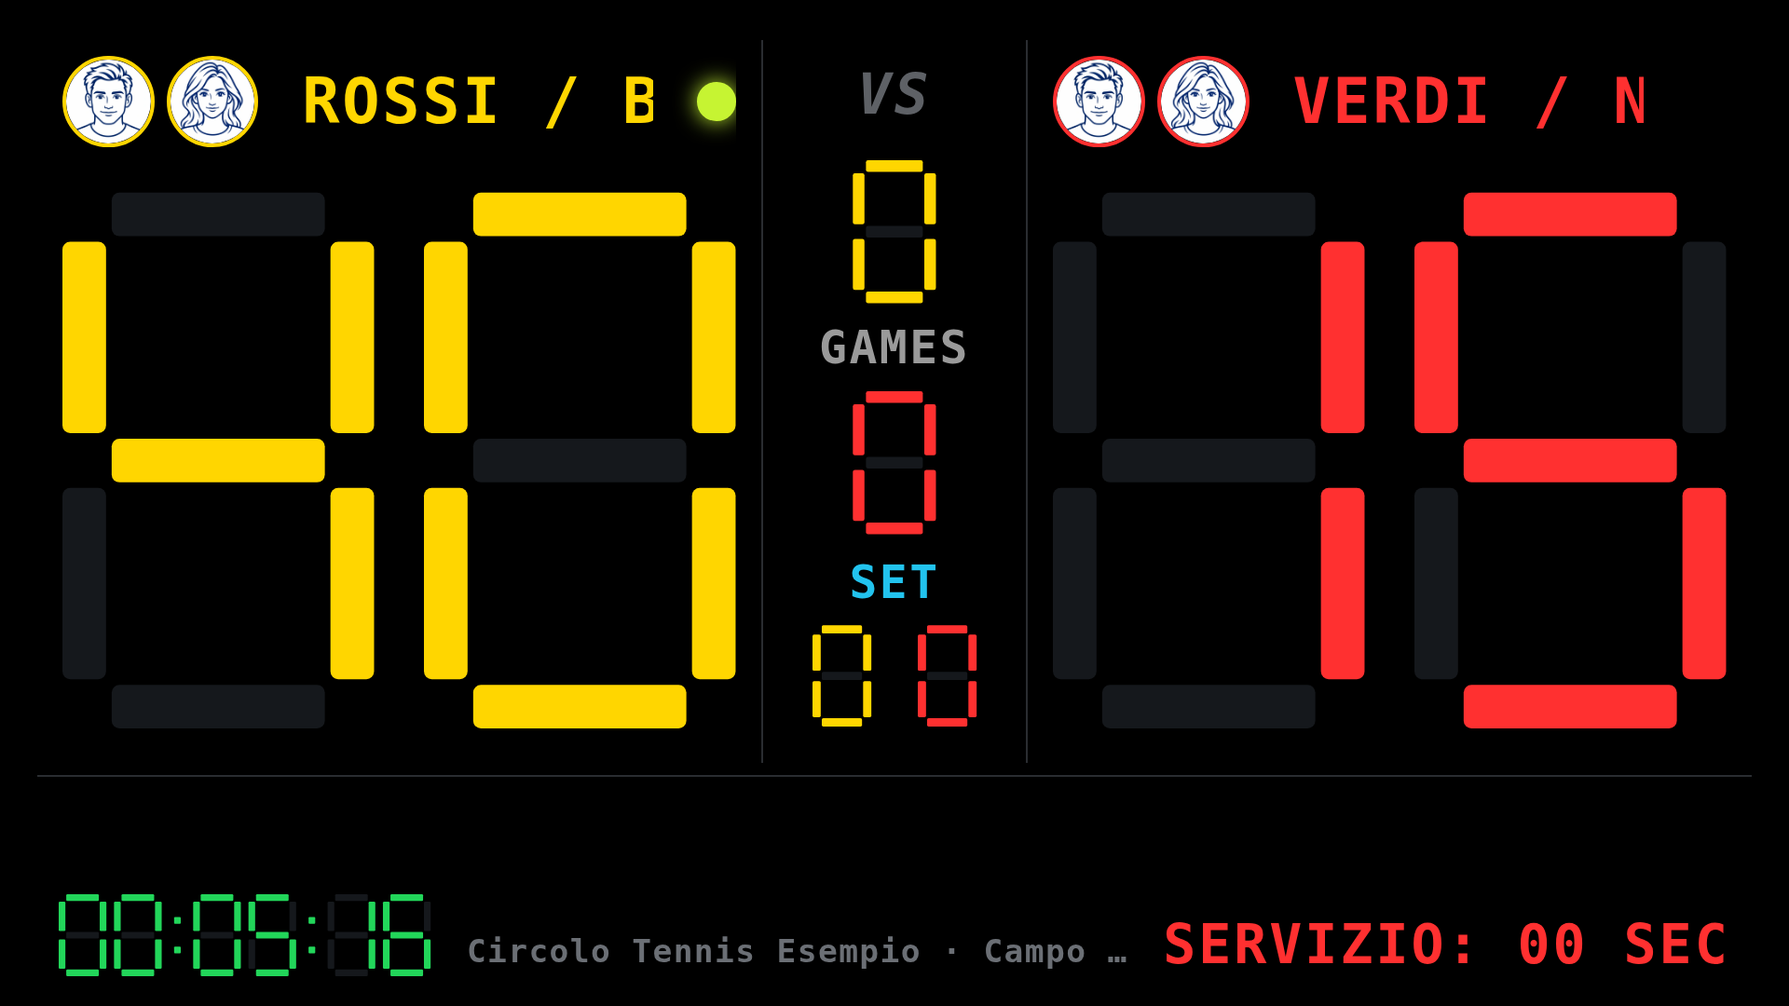
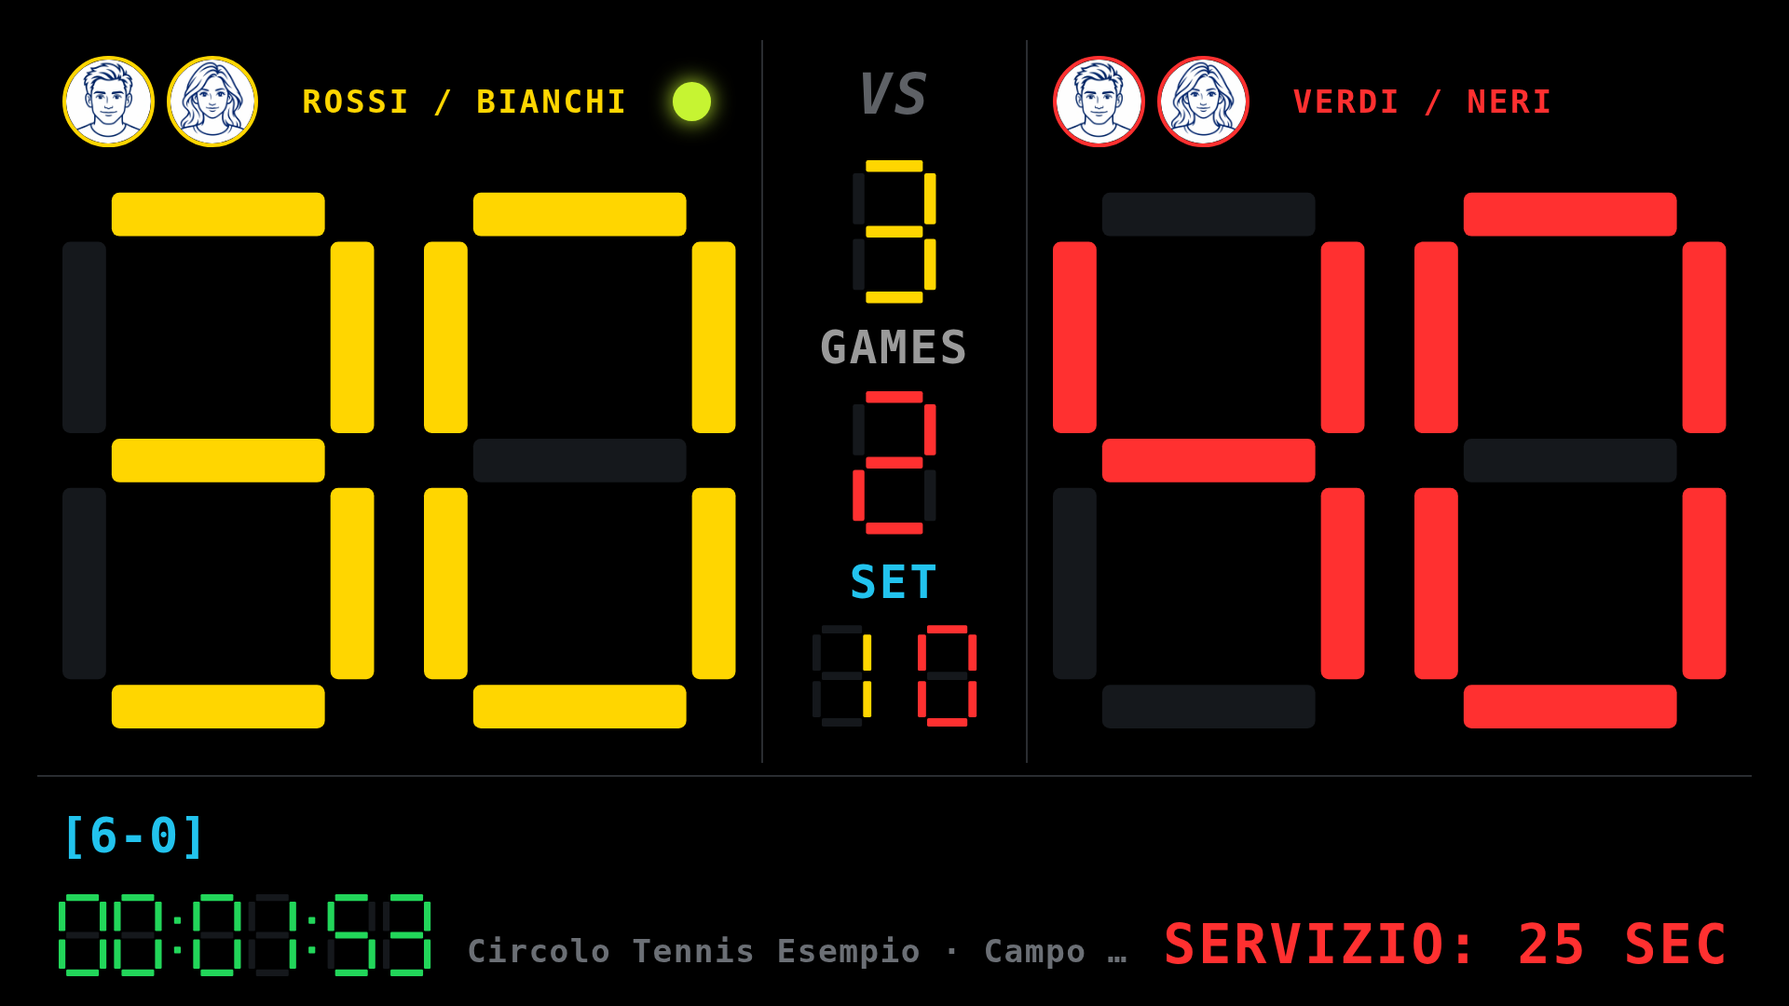
Tabellone in doppio leggibile e nome dell'app nelle esportazioni
- Tabellone TV: i nomi si adattano al posto lasciato da foto e pallina
  (in doppio non vengono più tagliati), stessa grandezza per i due lati.
  Prima della partita, sopra il circolo, "Tennis Score Manager" e
  l'indirizzo del sito.
- Statistiche degli highlight: in fondo "Creato con Tennis Score
  Manager" e l'indirizzo del sito, come nell'immagine social.
- PDF dell'allenamento: piè di pagina con nome dell'app e sito, come
  negli altri PDF.
- Guide 7.3; immagini del tabellone sul sito e su F-Droid rifatte.

diff --git a/TennisScoreManager/app/src/main/assets/scoreboard.html b/TennisScoreManager/app/src/main/assets/scoreboard.html
@@ -76,7 +76,11 @@
   #fr { justify-items: start; }
   #done { font-size: min(calc(4.8 * var(--vh)), calc(2.8 * var(--vw))); color: var(--cyan); white-space: nowrap; overflow: hidden; align-self: center; letter-spacing: .02em; }
   #clock { height: 78%; width: auto; align-self: end; }
-  #fc { display: flex; align-items: flex-end; justify-content: center; min-width: 0; }
+  #fc { display: flex; flex-direction: column; align-items: center; justify-content: flex-end; min-width: 0; }
+  /* Prima della partita, sopra il circolo: nome dell'app e indirizzo del sito (durante il gioco non c'è). */
+  #brand { display: none; font-size: min(calc(3.2 * var(--vh)), calc(1.9 * var(--vw))); color: #8A8E95; white-space: nowrap; overflow: hidden; max-width: 100%; letter-spacing: .04em; padding-bottom: calc(1 * var(--vh)); }
+  #brand b { color: var(--ball); font-weight: 700; }
+  body.pre #brand { display: block; }
   #title { font-size: min(calc(3.2 * var(--vh)), calc(1.9 * var(--vw))); color: #6B6F75; white-space: nowrap; overflow: hidden; text-overflow: ellipsis; letter-spacing: .04em; padding-bottom: calc(.6 * var(--vh)); }
   #msg { font-size: min(calc(4.6 * var(--vh)), calc(2.7 * var(--vw))); color: var(--orange); white-space: nowrap; align-self: center; letter-spacing: .03em; }
   #msg.blink { animation: blink 1.2s steps(2, start) infinite; }
@@ -124,7 +128,7 @@
   </div>
   <div id="foot">
     <div id="fl"><div id="done"></div><svg id="clock"></svg></div>
-    <div id="fc"><div id="title"></div></div>
+    <div id="fc"><div id="brand">Tennis Score Manager · <b>tennis-score-manager.netlify.app</b></div><div id="title"></div></div>
     <div id="fr"><div id="msg"></div><div id="timer"></div></div>
   </div>
 </div>
@@ -242,6 +246,22 @@ function fitText(el, maxPx) {
   }
 }
 
+// Il nome si rimpicciolisce finché sta nel posto lasciato da foto e pallina (in doppio le foto sono due).
+function fitName(n) {
+  const box = n.parentElement, gap = parseFloat(getComputedStyle(box).columnGap) || 0;
+  let taken = 0;
+  for (const c of box.children) if (c !== n && getComputedStyle(c).display !== "none") taken += c.offsetWidth + gap;
+  fitText(n, taken + 4);
+}
+
+// Tutti e due i nomi alla stessa grandezza: quella del più lungo.
+function fitNames() {
+  const ns = [$("n0"), $("n1")];
+  ns.forEach(fitName);
+  const px = Math.min(...ns.map(n => parseFloat(getComputedStyle(n).fontSize)));
+  ns.forEach(n => { n.style.fontSize = px + "px"; });
+}
+
 function hms(ms) {
   const t = Math.max(0, Math.floor(ms / 1000));
   const h = Math.floor(t / 3600) % 100, m = Math.floor(t / 60) % 60, s = t % 60;
@@ -259,17 +279,19 @@ function render() {
   setText(fs, "⛶ " + L.fullscreen);
   document.documentElement.style.setProperty("--p1", color(0));
   document.documentElement.style.setProperty("--p2", color(1));
+  let refit = false;
   for (let i = 0; i < 2; i++) {
     const n = $("n" + i);
     n.style.color = color(i);
-    if (n.textContent !== S.players[i].name) { n.textContent = S.players[i].name; fitText(n, 60); }
-    // Foto dei giocatori accanto al nome (ci sono solo se messe nell'app); si rifanno solo se cambiano.
+    // Foto o ritratti dei giocatori accanto al nome; si rifanno solo se cambiano.
     const ph = $("ph" + i), urls = (S.players[i].photos || []).join(" ");
     if (ph.dataset.u !== urls) {
       ph.dataset.u = urls;
       ph.style.color = color(i);
       ph.replaceChildren(...(S.players[i].photos || []).map(u => { const im = new Image(); im.src = u; im.alt = ""; return im; }));
+      refit = true;
     }
+    if (n.textContent !== S.players[i].name) { n.textContent = S.players[i].name; refit = true; }
     $("side" + i).classList.toggle("serving", S.show.serve && S.server === i);
     setSeg(pts[i], S.points[i], color(i));
     // Set senza tie-break o pro set: i game possono superare 9, allora le cifre diventano due (per tutti e due i lati).
@@ -278,6 +300,7 @@ function render() {
     setSeg(gms[i], S.phase === "idle" ? " " : String(S.games[i] % 100), color(i));
     setSeg(sts[i], S.phase === "idle" ? " " : String(S.sets[i] % 10), color(i));
   }
+  if (refit) fitNames();
   const vs = $("vs");
   const tb = S.phase === "play" || S.phase === "suspended" ? (S.tiebreak === "match" ? L.matchTiebreak : S.tiebreak === "set" ? L.tiebreak : "") : "";
   setText(vs, tb || L.vs);
@@ -293,6 +316,8 @@ function render() {
   setText($("done"), done);
   $("clock").classList.toggle("hide", !S.show.clock);
   setText($("title"), S.title || "");
+  const pre = S.phase === "idle" || S.phase === "ready";
+  if (document.body.classList.contains("pre") !== pre) { document.body.classList.toggle("pre", pre); if (pre) fitText($("brand")); }
 
   // messaggio: fasi speciali prima di tutto
   const msg = $("msg");
@@ -455,7 +480,7 @@ function viewportUnits() {
   }
 }
 viewportUnits();
-window.addEventListener("resize", () => { viewportUnits(); for (let i = 0; i < 2; i++) fitText($("n" + i), 60); fitText($("msg")); });
+window.addEventListener("resize", () => { viewportUnits(); fitNames(); fitText($("msg")); fitText($("brand")); });
 keepAwake();
 setInterval(tick, 200);
 

diff --git a/TennisScoreManager/app/src/main/java/com/tennis/scoremanager/video/StatsCardRenderer.kt b/TennisScoreManager/app/src/main/java/com/tennis/scoremanager/video/StatsCardRenderer.kt
@@ -47,10 +47,11 @@ object StatsCardRenderer {
     /**
      * [photos]: le foto dei giocatori di ciascun lato, nello stesso ordine dei nomi (null = avatar con le iniziali).
      * [pointsWon]: la scritta sotto la percentuale nei pannelli ("PUNTI VINTI").
+     * [credit] e [site]: in fondo "Creato con Tennis Score Manager · indirizzo del sito", come nell'immagine social.
      */
     fun render(
         card: HighlightStats.Card, page: List<HighlightStats.Section>, width: Int, height: Int, photos: Map<Side, List<Bitmap?>>, pointsWon: String,
-        avatars: Avatars? = null,
+        avatars: Avatars? = null, credit: String = "", site: String = "",
     ): Bitmap {
         val out = Bitmap.createBitmap(width, height, Bitmap.Config.ARGB_8888)
         val c = Canvas(out)
@@ -61,6 +62,7 @@ object StatsCardRenderer {
         header(c, card)
         for (side in Side.entries) player(c, card, side, photos[side].orEmpty(), pointsWon, avatars)
         rows(c, page)
+        footer(c, credit, site)
         return out
     }
 
@@ -206,6 +208,16 @@ object StatsCardRenderer {
             }
             y += 6f
         }
+    }
+
+    private fun footer(c: Canvas, credit: String, site: String) {
+        if (credit.isEmpty() && site.isEmpty()) return
+        val lead = if (credit.isNotEmpty() && site.isNotEmpty()) "$credit · " else credit
+        val cp = paint(26f, DIM)
+        val sp = paint(26f, YELLOW, bold = true)
+        val x = (W - cp.measureText(lead) - sp.measureText(site)) / 2
+        c.drawText(lead, x, 1072f, cp)
+        c.drawText(site, x + cp.measureText(lead), 1072f, sp)
     }
 
     /** Accorcia [text] con "…" finché sta in [max] punti. */

diff --git a/TennisScoreManager/app/src/main/java/com/tennis/scoremanager/video/HighlightMaker.kt b/TennisScoreManager/app/src/main/java/com/tennis/scoremanager/video/HighlightMaker.kt
@@ -49,6 +49,8 @@ class HighlightMaker(context: Context) {
         val avatars: StatsCardRenderer.Avatars? = null,
         /** Il brano dell'app, copiato dalle risorse (la musica scelta dall'utente ha la precedenza). */
         val defaultMusic: File? = null,
+        /** In fondo alle schermate: "Creato con Tennis Score Manager" e l'indirizzo del sito. */
+        val credit: String = "", val site: String = "",
     )
 
     /**
@@ -152,7 +154,7 @@ class HighlightMaker(context: Context) {
         stats ?: return emptyList()
         val dir = File(app.cacheDir, "hl_stats").apply { deleteRecursively(); mkdirs() }
         return stats.card.pages.mapIndexed { i, page ->
-            val bmp = StatsCardRenderer.render(stats.card, page, width, height, stats.photos, stats.pointsWon, stats.avatars)
+            val bmp = StatsCardRenderer.render(stats.card, page, width, height, stats.photos, stats.pointsWon, stats.avatars, stats.credit, stats.site)
             val f = File(dir, "stats_$i.png")
             f.outputStream().use { bmp.compress(Bitmap.CompressFormat.PNG, 100, it) }
             bmp.recycle()

diff --git a/TennisScoreManager/app/src/main/java/com/tennis/scoremanager/video/VideoPlayerActivity.kt b/TennisScoreManager/app/src/main/java/com/tennis/scoremanager/video/VideoPlayerActivity.kt
@@ -85,6 +85,7 @@ import com.tennis.scoremanager.R
 import com.tennis.scoremanager.TsmApp
 import com.tennis.scoremanager.data.MatchRecord
 import com.tennis.scoremanager.data.Names
+import com.tennis.scoremanager.data.Reports
 import com.tennis.scoremanager.model.PointKind
 import com.tennis.scoremanager.model.Side
 import com.tennis.scoremanager.ui.SegOption
@@ -550,6 +551,8 @@ class VideoPlayerActivity : ComponentActivity() {
                 card, photos, str.pointsWon,
                 controller.storage.highlightMusicFile.takeIf { controller.storage.highlightMusicName != null }, avatars,
                 bundled.takeIf { it.exists() },
+                credit = str.generatedWith,
+                site = Reports.siteUrl(controller.options.value.lang).removePrefix("https://").removeSuffix("/"),
             )
         }
         m.make(e, clips, { hlProgress = it }, stats = stats) { file ->

diff --git a/TennisScoreManager/app/src/main/java/com/tennis/scoremanager/data/WorkoutReport.kt b/TennisScoreManager/app/src/main/java/com/tennis/scoremanager/data/WorkoutReport.kt
@@ -95,11 +95,15 @@ object WorkoutReport {
             c.drawText(s.workoutLaps, 40f, y, head)
             y += 18f
             for (l in laps) {
-                if (y > 810f) break
+                if (y > 795f) break
                 c.drawText(lapLine(l, s), 40f, y, text)
                 y += 15f
             }
         }
+        // In fondo, come negli altri PDF: nome dell'app e indirizzo del sito.
+        c.drawText("${s.appName} · ${Reports.siteUrl(lang)}", 595f / 2, 822f, Paint(text).apply {
+            textSize = 8f; color = Color.rgb(110, 120, 135); textAlign = Paint.Align.CENTER
+        })
         doc.finishPage(page)
         doc.writeTo(out)
         doc.close()

diff --git a/deliver/GUIDE.fr.md b/deliver/GUIDE.fr.md
@@ -343,6 +343,7 @@ Un deuxième téléphone sur un trépied filme le match et met le score de l'arb
 - **Temps forts** : montage automatique des plus beaux points (aces, coups gagnants, balles de break, de set et de match, longs échanges avec les bracelets) dans l'ordre de priorité choisi avec les flèches, pour 1, 3, 5, 10 ou 15 minutes au maximum ou une **Autre durée** jusqu'à 90. Si tout ne tient pas, les extraits sont d'abord raccourcis, puis les points les moins importants restent dehors. Le résultat va dans la galerie.
   - **Statistiques en fin de vidéo** : 2 ou 3 écrans de 10 secondes comme dans les directs des tournois : service et balles de break ; points, fautes et échanges courts et longs ; fréquence cardiaque, s'il y avait la ceinture. Le match est celui de l'historique joué pendant l'enregistrement, ou celui des points marqués sur une vidéo importée. Sur les côtés, la photo du joueur ; sans photo, un portrait stylisé d'homme ou de femme (choix **Homme / Femme** en page 1) (sans choix, celui de l'homme ; valable dans toute l'application, aussi en page 1, dans l'historique, le résumé, le PDF et le tableau TV) ; en bas, le pourcentage de points gagnés. En haut, tournoi, catégorie et tour (carte **Tournoi** en page 1), ou club et court.
   - **Musique** sous les statistiques, avec fondu en entrée et en sortie : *Nowhere Land* de Kevin MacLeod (incompetech.com, licence CC BY 4.0 : si vous publiez la vidéo, citez-le), ou un morceau à vous avec **Choisir un morceau** (on en utilise le début ; n'utilisez que de la musique que vous avez le droit de mettre dans vos vidéos).
+  - En bas de chaque écran de statistiques figure la mention **Créé avec Tennis Score Manager** avec l'adresse du site.
 - **Ralenti** : sur le téléphone de l'arbitre, avec la caméra connectée, **Ralenti** demande à la caméra le point contesté (*Dernier point*, *Point précédent* ou *Depuis le dernier point marqué*) et l'affiche, avec pause et image par image. **Aussi sur le tableau** le montre aussi sur le tableau TV.
 
 ## 8. Tableau d'affichage sur TV ou écran

diff --git a/deliver/GUIDE.es.md b/deliver/GUIDE.es.md
@@ -343,6 +343,7 @@ Un segundo teléfono en un trípode graba el partido y pone en el vídeo el marc
 - **Mejores jugadas**: montaje automático de los mejores puntos (aces, golpes ganadores, bolas de break, de set y de partido, peloteos largos con las pulseras) en el orden de prioridad elegido con las flechas, de como máximo 1, 3, 5, 10 o 15 minutos u **Otra duración** de hasta 90. Si no cabe todo, primero se acortan los trozos y luego se quedan fuera los puntos menos importantes. El resultado va a la galería.
   - **Estadísticas al final del vídeo**: 2 o 3 pantallas de 10 segundos como en las retransmisiones de los torneos: saque y bolas de break; puntos, errores y peloteos cortos y largos; pulso, si se llevaba la banda. El partido es el del historial jugado mientras se grababa, o el de los puntos marcados en un vídeo importado. A los lados, la foto del jugador; sin foto, un retrato estilizado de hombre o de mujer (elección **Hombre / Mujer** en la página 1) (sin elección, el del hombre; vale en toda la app, también en la página 1, el historial, el resumen, el PDF y el marcador de la TV); debajo, el porcentaje de puntos ganados. Arriba, torneo, categoría y ronda (tarjeta **Torneo** en la página 1), o club y pista.
   - **Música** bajo las estadísticas, con fundido de entrada y de salida: *Nowhere Land* de Kevin MacLeod (incompetech.com, licencia CC BY 4.0: si publicas el vídeo, cítalo), o una pista tuya con **Elegir una pista** (se usa el principio; usa solo música que tengas derecho a poner en tus vídeos).
+  - Al pie de cada pantalla de estadísticas aparece **Creado con Tennis Score Manager** con la dirección del sitio.
 - **Repetición**: en el teléfono del árbitro, con la cámara conectada, **Repetición** pide a la cámara el punto dudoso (*Último punto*, *Punto anterior* o *Desde el último punto marcado*) y lo muestra, con pausa y fotograma a fotograma. **También en el marcador** lo enseña también en el marcador de la TV.
 
 ## 8. Marcador en un televisor o monitor

diff --git a/deliver/GUIDE.de.md b/deliver/GUIDE.de.md
@@ -343,6 +343,7 @@ Ein zweites Telefon auf einem Stativ filmt das Match und blendet den Spielstand 
 - **Highlights**: automatischer Zusammenschnitt der schönsten Punkte (Asse, Winner, Breakbälle, Satz- und Matchbälle, lange Ballwechsel mit den Armbändern) in der mit den Pfeilen gewählten Reihenfolge, für höchstens 1, 3, 5, 10 oder 15 Minuten oder eine **Andere Länge** bis 90. Passt nicht alles hinein, werden zuerst die Stücke gekürzt, dann bleiben die unwichtigeren Punkte draußen. Das Ergebnis kommt in die Galerie.
   - **Statistiken am Videoende**: 2 oder 3 Bildschirme zu je 10 Sekunden wie in Turnierübertragungen: Aufschlag und Breakbälle; Punkte, Fehler sowie kurze und lange Ballwechsel; Puls, falls ein Gurt getragen wurde. Das Match ist das im Verlauf, das während der Aufnahme gespielt wurde, oder das der Punkte eines importierten Videos. An den Seiten das Foto des Spielers; ohne Foto ein stilisiertes Porträt von Mann oder Frau (Wahl **Mann / Frau** auf Seite 1) (ohne Wahl der Mann; gilt in der ganzen App, auch auf Seite 1, im Verlauf, im Spielbericht, im PDF und auf der Anzeigetafel); darunter der Anteil gewonnener Punkte. Oben Turnier, Kategorie und Runde (Karte **Turnier** auf Seite 1) oder Club und Platz.
   - **Musik** unter den Statistiken, mit Ein- und Ausblendung: *Nowhere Land* von Kevin MacLeod (incompetech.com, Lizenz CC BY 4.0: Wenn du das Video veröffentlichst, nenne ihn), oder ein eigener Titel mit **Titel wählen** (es wird der Anfang verwendet; nur Musik verwenden, die du in deinen Videos nutzen darfst).
+  - Unten auf jeder Statistikseite steht **Erstellt mit Tennis Score Manager** mit der Adresse der Website.
 - **Zeitlupe**: Auf dem Telefon des Schiedsrichters fragt **Zeitlupe** bei verbundener Kamera den strittigen Punkt ab (*Letzter Punkt*, *Punkt davor* oder *Seit dem letzten gezählten Punkt*) und zeigt ihn, mit Pause und Bild für Bild. **Auch auf der Anzeigetafel** zeigt ihn zusätzlich auf der TV-Anzeigetafel.
 
 ## 8. Anzeigetafel auf TV oder Monitor

diff --git a/deliver/GUIDE.pt.md b/deliver/GUIDE.pt.md
@@ -343,6 +343,7 @@ Um segundo telefone num tripé filma a partida e coloca no vídeo o placar do á
 - **Melhores momentos**: montagem automática dos melhores pontos (aces, winners, break points, set e match points, trocas de bola longas com as pulseiras) na ordem de prioridade escolhida com as setas, de no máximo 1, 3, 5, 10 ou 15 minutos ou uma **Outra duração** até 90. Se não couber tudo, primeiro os trechos são encurtados, depois ficam de fora os pontos menos importantes. O resultado vai para a galeria.
   - **Estatísticas no fim do vídeo**: 2 ou 3 telas de 10 segundos como nas transmissões dos torneios: saque e break points; pontos, erros e trocas de bola curtas e longas; batimentos, se a cinta foi usada. A partida é a do histórico jogada durante a gravação, ou a dos pontos marcados num vídeo importado. Nas laterais, a foto do jogador; sem foto, um retrato estilizado de homem ou de mulher (escolha **Homem / Mulher** na página 1) (sem escolha, o do homem; vale em todo o app, também na página 1, no histórico, no resumo, no PDF e no placar da TV); embaixo, a porcentagem de pontos ganhos. No alto, torneio, categoria e fase (cartão **Torneio** na página 1), ou clube e quadra.
   - **Música** sob as estatísticas, com fade de entrada e de saída: *Nowhere Land* de Kevin MacLeod (incompetech.com, licença CC BY 4.0: se publicar o vídeo, dê o crédito), ou uma faixa sua com **Escolher uma faixa** (usa-se o começo; use só músicas que você tem o direito de colocar nos seus vídeos).
+  - No rodapé de cada tela de estatísticas aparece **Criado com Tennis Score Manager** com o endereço do site.
 - **Replay**: no telefone do árbitro, com a câmera conectada, **Replay** pede à câmera o ponto contestado (*Último ponto*, *Ponto anterior* ou *Desde o último ponto marcado*) e o mostra, com pausa e quadro a quadro. **Também no placar** mostra também no placar da TV.
 
 ## 8. Placar na TV ou no monitor

diff --git a/deliver/GUIDA.md b/deliver/GUIDA.md
@@ -343,6 +343,7 @@ Un secondo telefono su un treppiede riprende la partita e mette sul video il pun
 - **Highlights**: montaggio automatico dei punti più belli (ace, vincenti, palle break, set e match point, scambi lunghi coi braccialetti) nell'ordine di precedenza scelto con le frecce, per al massimo 1, 3, 5, 10 o 15 minuti o un'**Altra durata** fino a 90. Se non ci sta tutto prima si accorciano i pezzi, poi restano fuori i punti meno importanti. Il risultato va in galleria.
   - **Statistiche a fine video**: 2 o 3 schermate da 10 secondi come nelle dirette dei tornei: servizio e palle break; punti, errori e scambi corti e lunghi; battito, se c'era la fascia. La partita è quella dello storico giocata mentre si registrava, o quella dei punti segnati su un video importato. Ai lati la foto del giocatore; senza foto un ritratto stilizzato di uomo o di donna (scelta **Uomo / Donna** in pagina 1) (senza scelta, quello dell'uomo; vale in tutta l'app, anche in pagina 1, storico, riepilogo, PDF e tabellone TV); sotto, la percentuale di punti vinti. In alto torneo, categoria e turno (scheda **Torneo** in pagina 1), oppure circolo e campo.
   - **Musica** sotto le statistiche, con dissolvenza in entrata e in uscita: *Nowhere Land* di Kevin MacLeod (incompetech.com, licenza CC BY 4.0: se pubblichi il video, citalo nei crediti), oppure un brano tuo con **Scegli un brano** (se ne usa l'inizio; usa solo musica che hai il diritto di mettere nei tuoi video).
+  - In fondo a ogni schermata delle statistiche c'è la scritta **Creato con Tennis Score Manager** con l'indirizzo del sito.
 - **Moviola**: sul telefono dell'arbitro, con la telecamera collegata, **Moviola** chiede alla telecamera il punto contestato (*Ultimo punto*, *Punto prima* o *Dall'ultimo punto segnato*) e lo mostra, con pausa e fotogramma per fotogramma. **Anche sul tabellone** lo fa vedere anche sul tabellone TV.
 
 ## 8. Tabellone su TV o monitor

diff --git a/deliver/GUIDE.en.md b/deliver/GUIDE.en.md
@@ -343,6 +343,7 @@ A second phone on a tripod films the match and puts the umpire's score on the vi
 - **Highlights**: automatic edit of the best points (aces, winners, break points, set and match points, long rallies with the wristbands) in the priority order set with the arrows, for at most 1, 3, 5, 10 or 15 minutes or an **Other length** up to 90. If it doesn't all fit, clips are shortened first, then the less important points are left out. The result goes to the gallery.
   - **Statistics at the end of the video**: 2 or 3 screens of 10 seconds like in tournament broadcasts: serve and break points; points, errors and short and long rallies; heart rate, if a strap was worn. The match is the one in the history played while recording, or the one scored on an imported video. At the sides, the player's photo; without a photo, a stylised man or woman portrait (**Man / Woman** choice on page 1) (without a choice, the man; this applies across the app, also on page 1, history, summary, PDF and TV scoreboard); below, the percentage of points won. At the top, tournament, category and round (**Tournament** card on page 1), or club and court.
   - **Music** under the statistics, with fade in and out: *Nowhere Land* by Kevin MacLeod (incompetech.com, CC BY 4.0 licence: if you publish the video, credit it), or a track of yours with **Choose a track** (its beginning is used; only use music you have the right to put in your videos).
+  - At the bottom of every statistics screen there is the line **Made with Tennis Score Manager** with the website address.
 - **Replay**: on the umpire's phone, with the camera connected, **Replay** asks the camera for the disputed point (*Last point*, *Previous point* or *Since the last scored point*) and shows it, with pause and frame by frame. **Also on the scoreboard** shows it on the TV scoreboard too.
 
 ## 8. Scoreboard on a TV or monitor
